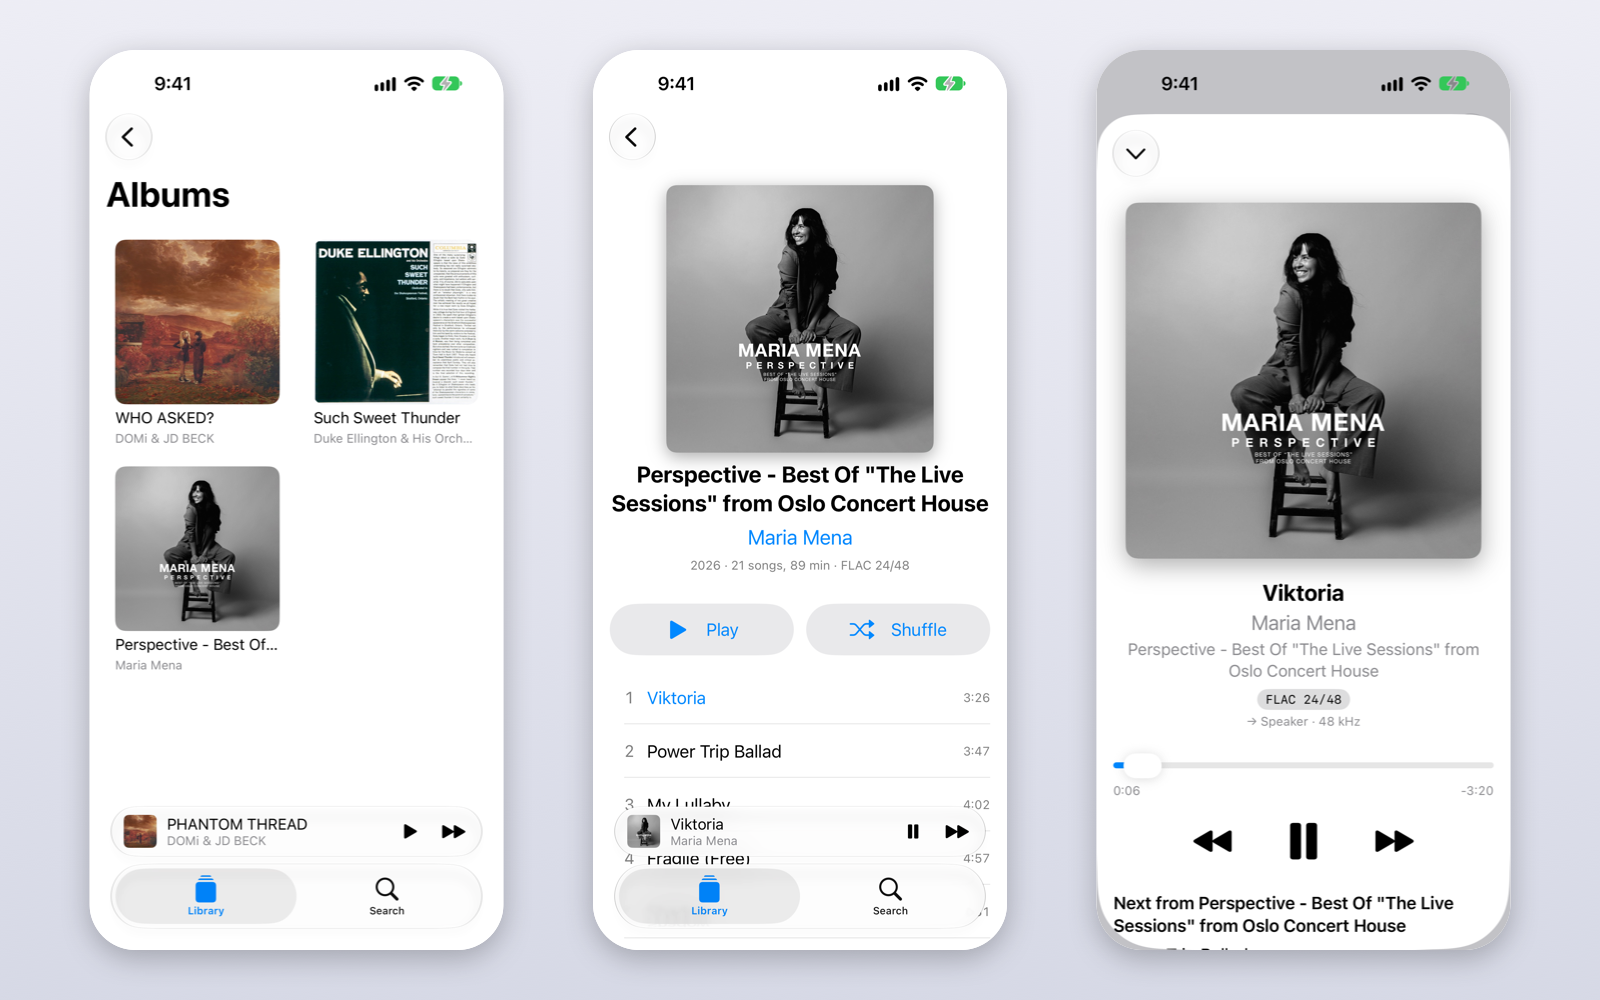
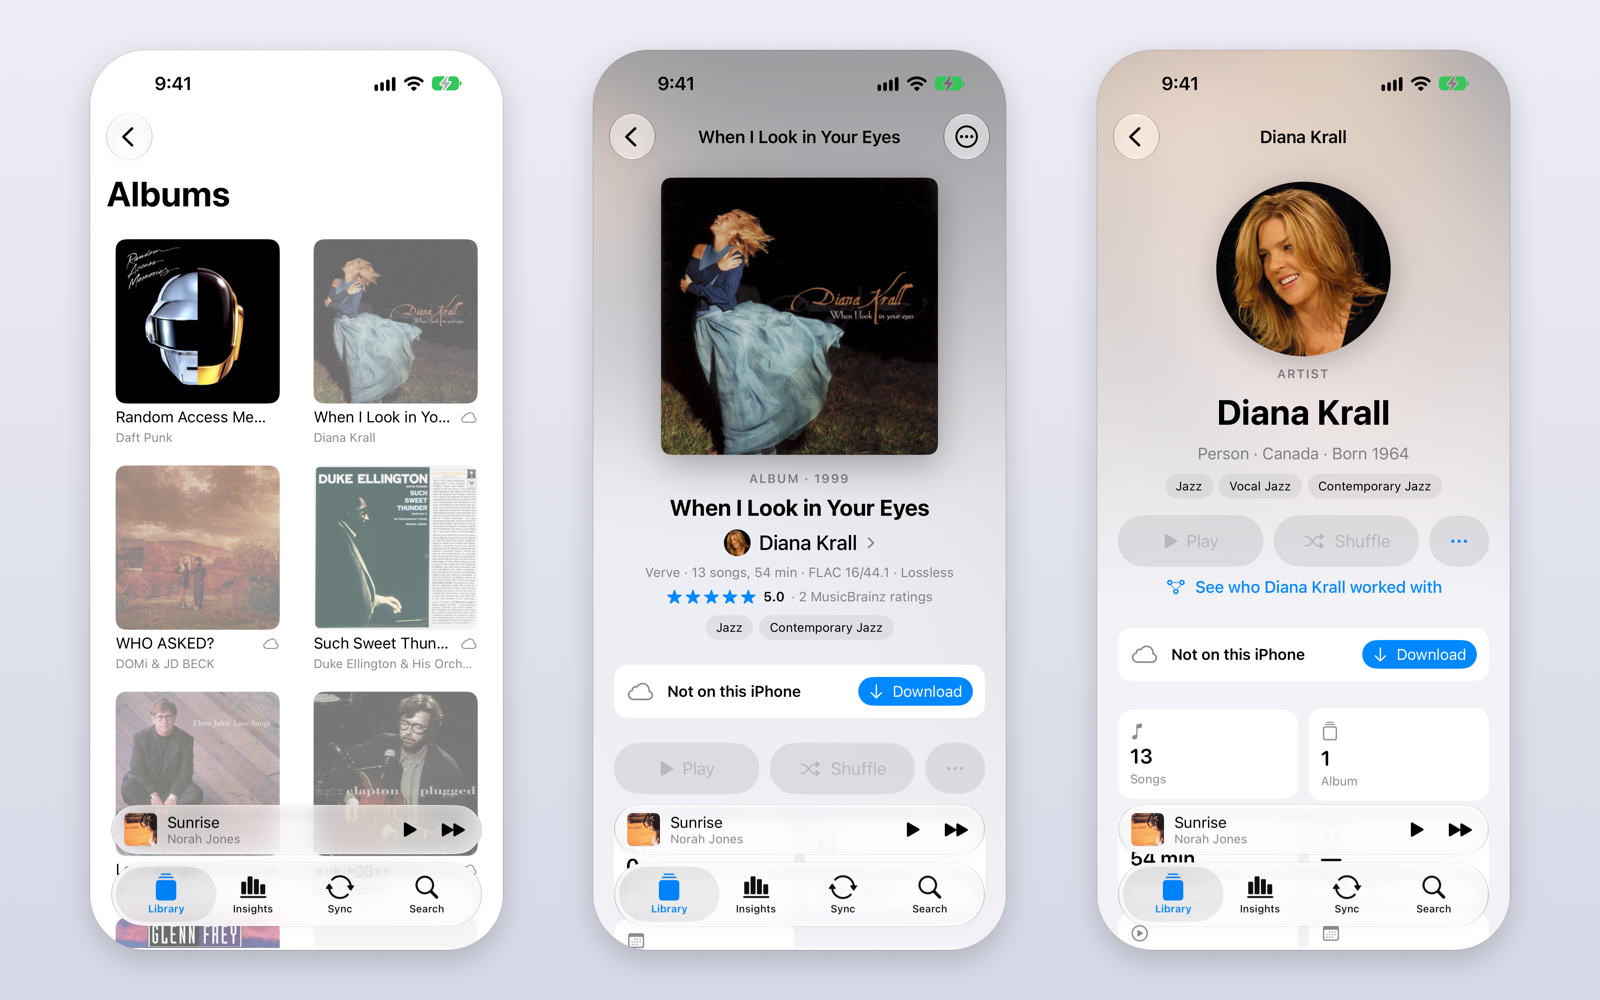
README: the iPhone's whole-library browsing, downloads, Music DNA and Insights, with new screenshots
Adds scripts/compose-iphone-screenshots.swift, which lays out the iPhone screenshots.

diff --git a/scripts/compose-iphone-screenshots.swift b/scripts/compose-iphone-screenshots.swift
@@ -1,0 +1,66 @@
+// Puts three iPhone screenshots side by side on a 1600×1000 canvas, as in docs/screenshots/iphone*.png.
+// Take them with `xcrun simctl io booted screenshot <file>.png` after
+// `xcrun simctl status_bar booted override --time 9:41 --batteryState charged --batteryLevel 100 --wifiBars 3 --cellularBars 4`.
+//
+//     swift scripts/compose-iphone-screenshots.swift <out.png> <left.png> <middle.png> <right.png>
+
+import CoreGraphics
+import Foundation
+import ImageIO
+import UniformTypeIdentifiers
+
+let args = CommandLine.arguments
+guard args.count == 5 else {
+    print("usage: compose-iphone-screenshots.swift <out.png> <left.png> <middle.png> <right.png>")
+    exit(1)
+}
+
+func load(_ path: String) -> CGImage {
+    guard let source = CGImageSourceCreateWithURL(URL(fileURLWithPath: path) as CFURL, nil),
+          let image = CGImageSourceCreateImageAtIndex(source, 0, nil) else {
+        print("Can't read \(path)")
+        exit(1)
+    }
+    return image
+}
+
+func color(_ hex: UInt32) -> CGColor {
+    CGColor(srgbRed: CGFloat(hex >> 16 & 0xff) / 255, green: CGFloat(hex >> 8 & 0xff) / 255, blue: CGFloat(hex & 0xff) / 255, alpha: 1)
+}
+
+let width = 1600, height = 1000
+let space = CGColorSpace(name: CGColorSpace.sRGB)!
+let ctx = CGContext(data: nil, width: width, height: height, bitsPerComponent: 8, bytesPerRow: 0, space: space,
+                    bitmapInfo: CGImageAlphaInfo.premultipliedLast.rawValue)!
+let background = CGGradient(colorsSpace: space, colors: [color(0xd6d9e6), color(0xededf5)] as CFArray, locations: [0, 1])!
+ctx.drawLinearGradient(background, start: .zero, end: CGPoint(x: 0, y: height), options: [])
+
+let phoneWidth: CGFloat = 413, phoneHeight: CGFloat = 900, radius: CGFloat = 56
+for (i, path) in args[2...4].enumerated() {
+    let image = load(path)
+    let frame = CGRect(x: [90, 593, 1097][i], y: (CGFloat(height) - phoneHeight) / 2, width: phoneWidth, height: phoneHeight)
+    let shape = CGPath(roundedRect: frame, cornerWidth: radius, cornerHeight: radius, transform: nil)
+    ctx.saveGState()
+    ctx.setShadow(offset: CGSize(width: 0, height: -10), blur: 30, color: CGColor(gray: 0, alpha: 0.18))
+    ctx.addPath(shape)
+    ctx.setFillColor(CGColor(gray: 1, alpha: 1))
+    ctx.fillPath()
+    ctx.restoreGState()
+    // The screenshot fills the frame's width; anything below the frame is cut off.
+    ctx.saveGState()
+    ctx.addPath(shape)
+    ctx.clip()
+    ctx.interpolationQuality = .high
+    let scaledHeight = CGFloat(image.height) * phoneWidth / CGFloat(image.width)
+    ctx.draw(image, in: CGRect(x: frame.minX, y: frame.maxY - scaledHeight, width: phoneWidth, height: scaledHeight))
+    ctx.restoreGState()
+    ctx.addPath(shape)
+    ctx.setStrokeColor(CGColor(gray: 0, alpha: 0.08))
+    ctx.setLineWidth(1.5)
+    ctx.strokePath()
+}
+
+let out = URL(fileURLWithPath: args[1])
+guard let image = ctx.makeImage(), let dest = CGImageDestinationCreateWithURL(out as CFURL, UTType.png.identifier as CFString, 1, nil) else { exit(1) }
+CGImageDestinationAddImage(dest, image, nil)
+exit(CGImageDestinationFinalize(dest) ? 0 : 1)

diff --git a/AGENTS.md b/AGENTS.md
@@ -50,7 +50,7 @@ SwiftUI's `@State`/`@Environment` macro plugin is not shipped with the CLT, so t
 - `.github/workflows/ci.yml` builds, runs the tests and builds a universal app on every push and pull request (macOS runner, newest stable Xcode, ffmpeg from Homebrew). A separate `ios` job builds `MusicLibraryCore` and the iPhone app for iOS on GitHub's `xcode-27` image (Xcode 27, in preview; the macOS images stop at Xcode 26, without the iOS 27 SDK).
 - Pushing a tag `vX.Y.Z` also publishes a GitHub release with `MusicLibrary-X.Y.Z-macOS.zip` (ad-hoc signed, not notarized) and its SHA-256. Its notes start with that version's section of `CHANGELOG.md` (or `## Unreleased` when there's none), then the install steps and GitHub's generated list of merged PRs.
 - `CHANGELOG.md`: add user-visible changes under `## Unreleased` in the same PR as the change (plain bullets, absolute links: they're shown on GitHub's release page). Before tagging a release, rename `## Unreleased` to `## X.Y.Z` and add a new empty `## Unreleased` above it.
-- README screenshots live in `docs/screenshots/` (1600 px wide, taken from a real library window). `iphone.png` is three iOS Simulator screenshots (status bar set with `xcrun simctl status_bar … override --time 9:41`) side by side on a 1600×1000 canvas.
+- README screenshots live in `docs/screenshots/` (1600 px wide, taken from a real library window). `iphone.png` and `iphone-dna-insights.png` are three iOS Simulator screenshots each (status bar set with `xcrun simctl status_bar … override --time 9:41`, taken with `xcrun simctl io booted screenshot`), put side by side on a 1600×1000 canvas by `swift scripts/compose-iphone-screenshots.swift <out> <left> <middle> <right>`.
 
 ## Library catalog
 - The catalog site sits behind Cloudflare, which blocks URLSession (and curl) for pages and AJAX: `LibraryCatalogClient` loads them with `fetch()` inside a hidden `WKWebView` (persistent data store, so sign-ins survive), one request at a time with a short gap. Cover images (`bookcover.php`) redirect to other hosts, so they load with URLSession instead. Requests are `.interactive` (0.8 s apart) or `.background` (3 s apart: scans and lookups). A 429 sets a cool-down (Retry-After, or 60 s doubling up to 15 min) during which background work waits and interactive requests fail with `CatalogError.rateLimited`; background lookups also hold while a scan runs, so only one stream hits the site. Don't hammer the site while developing.

diff --git a/README.md b/README.md
@@ -165,7 +165,9 @@ playlists and a Now Playing screen that shows the file's format and the rate you
 between songs at the same rate. Music that isn't on the phone is dimmed: tap **Download** and the phone fetches it from
 the Mac over Wi-Fi, or **Remove from iPhone** to free the space.
 
-![The iPhone app: the albums grid, an album page and Now Playing showing FLAC 24/48 going out at 48 kHz](docs/screenshots/iphone.png)
+![The iPhone app: the whole library's albums with the ones not on the phone dimmed, an album that isn't on the phone with its Download button, and an artist page](docs/screenshots/iphone.png)
+
+![The iPhone app: an album's listening stats and track list with the song playing, Music DNA centered on Diana Krall, and Insights with the timeline by decade and top genres](docs/screenshots/iphone-dna-insights.png)
 
 ### Themes
 
@@ -248,6 +250,12 @@ then send only what changed.
 
 **Use it**
 
+- **Library** lists everything; switch it to **On This iPhone** to see only what you can play right now. Albums, artists
+  and songs that aren't on the phone are dimmed: tap one to download it, or long-press anything for **Download to
+  iPhone** or **Remove from iPhone**. What's waiting for the Mac is listed in the Sync tab.
+- Album and artist pages, **Music DNA** (from Library, an artist page or any credited name) and the **Insights** tab work
+  without the music being on the phone, from what the Mac last synced. Liking songs and editing **Your Copy** on an album
+  page go back to the Mac at the next sync.
 - With a USB DAC connected, each song plays at its own sample rate (16/44.1, 24/96, 24/192…); Now Playing shows where it's
   going and at what rate. For bit-perfect output keep the iPhone's volume at maximum and use the DAC's or amplifier's.
   Unplugging the DAC pauses instead of switching to the speaker.
